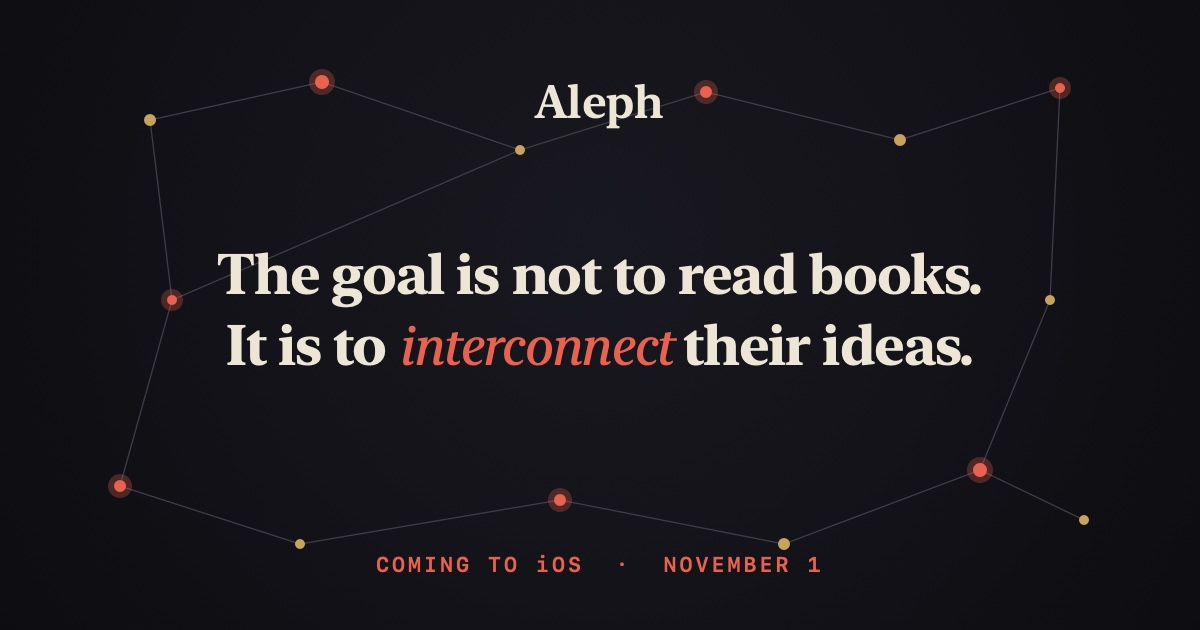
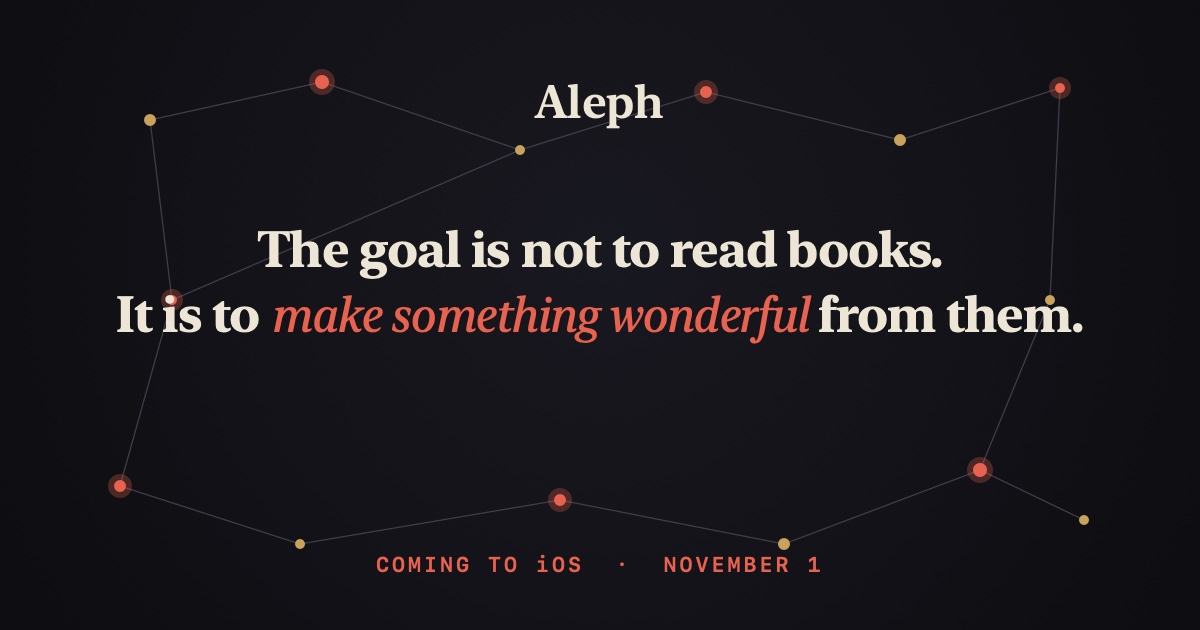
feat(seo): OG image + titulo al mensaje nuevo; resalta 'make something wonderful'
OG image regenerada con el hero actual ('...make something wonderful from them') + cache-bust ?v=2. Titulo del sitio -> 'Aleph — Join The Great Conversation'. Resalta la frase completa 'make something wonderful' en coral.

Changed region(s): [[0.0925, 0.3619, 0.925, 0.6032]]

diff --git a/index.html b/index.html
@@ -1,6 +1,6 @@
 ---
 layout: default
-title: Aleph — Reading that interconnects
+title: Aleph — Join The Great Conversation
 description: "Aleph turns what you read—your highlights, your notes, your questions—into a living graph of ideas. Apple Books measures minutes. Aleph measures connections. Coming to iOS."
 ---
 <main id="home">
@@ -24,7 +24,7 @@ description: "Aleph turns what you read—your highlights, your notes, your ques
     </svg>
     <div class="inner wrap">
       <span class="eyebrow">Personal library · Reading that endures</span>
-      <h1 class="serif">The goal is not to read books.<br>It is to make something <em>wonderful</em> from them.</h1>
+      <h1 class="serif">The goal is not to read books.<br>It is to <em>make something wonderful</em> from them.</h1>
       <p class="arc"><span>Harvest</span><span>Interconnect</span><span>Assimilate</span><span>Create</span></p>
       <p class="sub">You don't read for the sake of reading. You read to understand, to assimilate, and to create something worth keeping—for yourself, or for others. Aleph helps you get the most out of every reading session. <b>Apple Books measures minutes. Aleph measures what you keep.</b></p>
       <div class="cta-row">

diff --git a/_layouts/default.html b/_layouts/default.html
@@ -22,7 +22,7 @@
   <meta property="og:title" content="{{ page_title }}">
   <meta property="og:description" content="{{ page.description | default: site.description }}">
   <meta property="og:url" content="{{ page.url | absolute_url }}">
-  <meta property="og:image" content="{{ '/og-image.jpg' | absolute_url }}">
+  <meta property="og:image" content="{{ '/og-image.jpg?v=2' | absolute_url }}">
   <meta property="og:image:type" content="image/jpeg">
   <meta property="og:image:width" content="1200">
   <meta property="og:image:height" content="630">
@@ -33,7 +33,7 @@
   <meta name="twitter:card" content="summary_large_image">
   <meta name="twitter:title" content="{{ page_title }}">
   <meta name="twitter:description" content="{{ page.description | default: site.description }}">
-  <meta name="twitter:image" content="{{ '/og-image.jpg' | absolute_url }}">
+  <meta name="twitter:image" content="{{ '/og-image.jpg?v=2' | absolute_url }}">
 
   <!-- Structured data -->
   <script type="application/ld+json">
